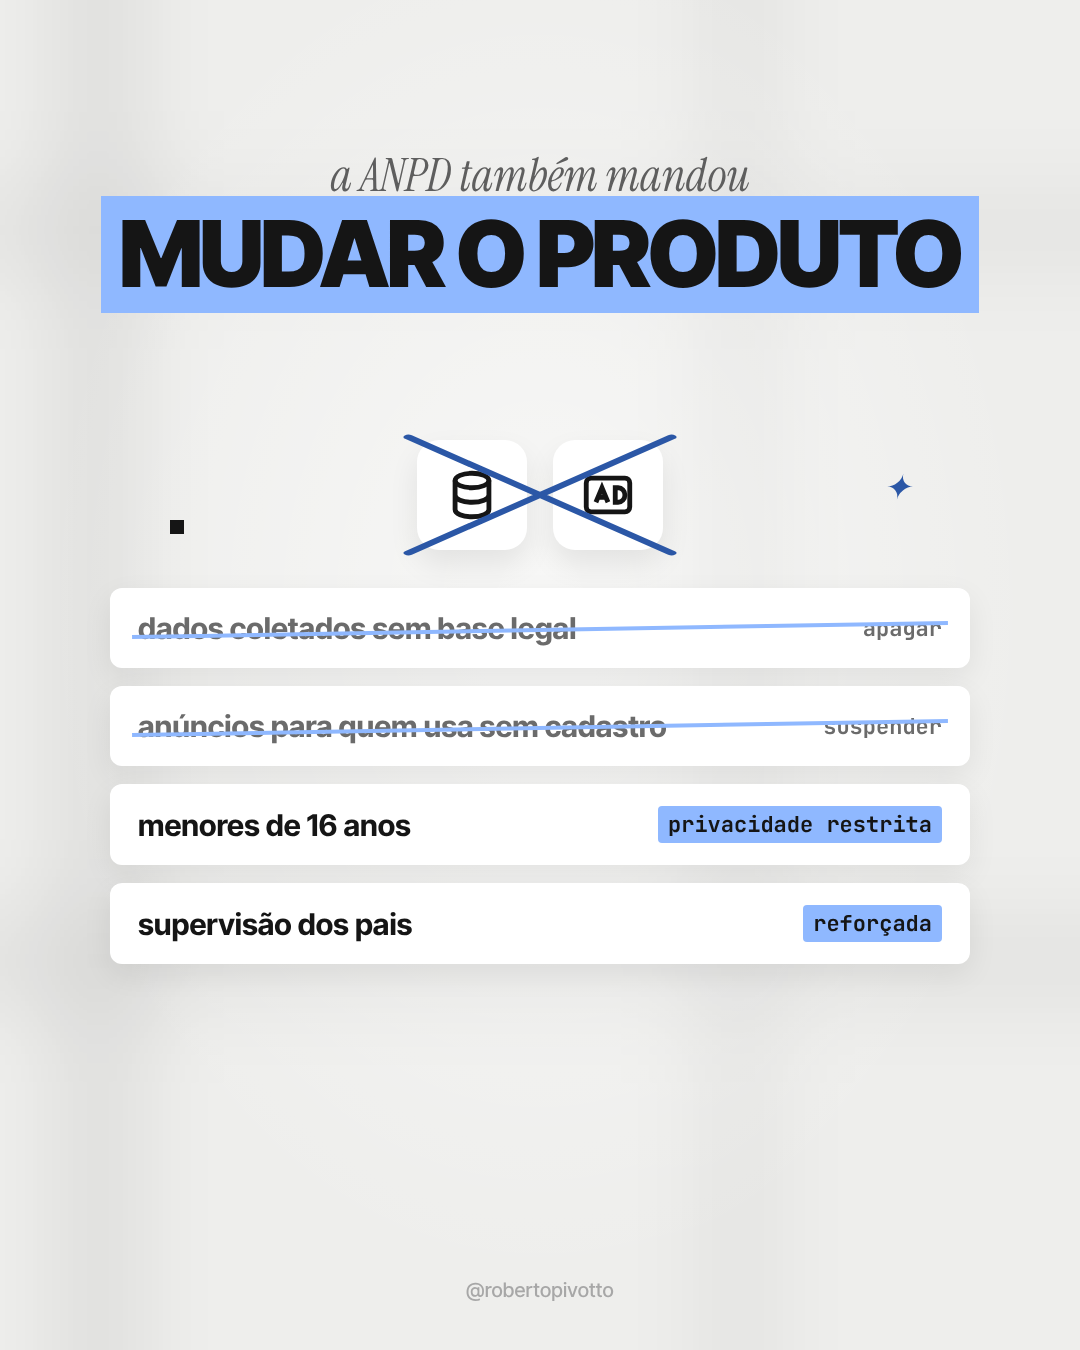
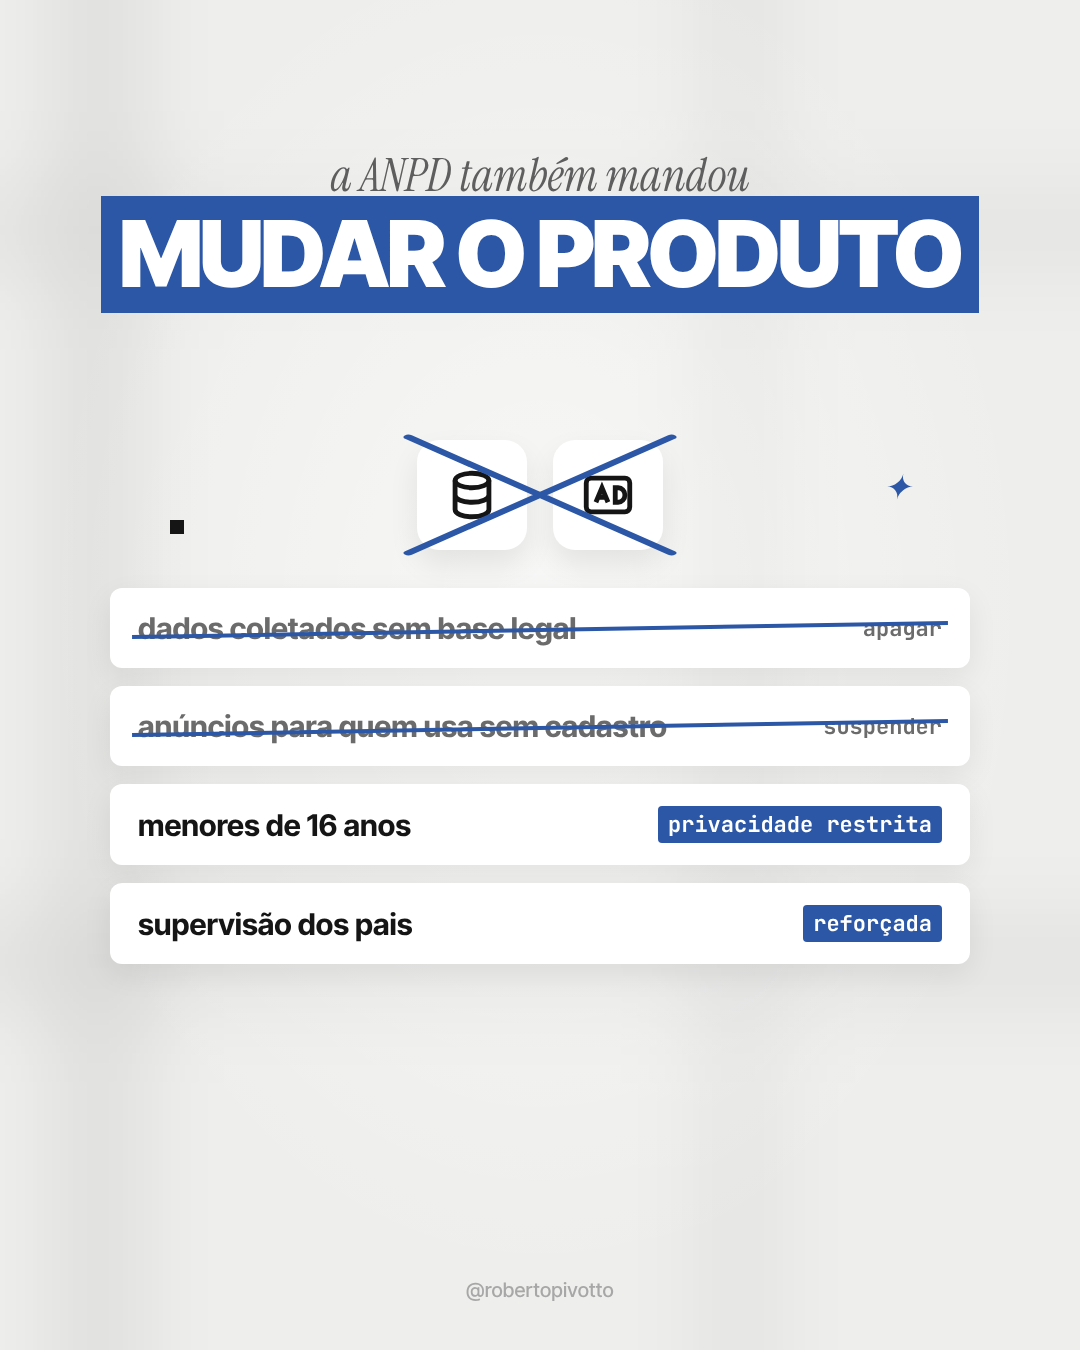
roberto-pivotto: modelo referência em azul forte
Claude-Session: https://claude.ai/code/session_01Su23FwMFMHv6uGmYoix1fv

diff --git a/roberto-pivotto/posts/modelo-referencia/artes.html b/roberto-pivotto/posts/modelo-referencia/artes.html
@@ -11,7 +11,7 @@
    Componentes: .lead (linha pequena em serifa itálica), .big (título pesado em caixa alta),
    .mk (marca-texto), .card, .chip, .tag (etiqueta com miras), .input (caixa de prompt/comentário),
    .lista, .riscado, .num, .estrela. Troque --acento para mudar a cor do tema. */
-:root{--fundo:#EEEEEC;--branco:#FFFFFF;--tinta:#151515;--cinza:#6B6B6B;--cinza2:#A7A7A7;--linha:#E2E2DF;--acento:#8FB8FF;--azul:#2B57A6;
+:root{--fundo:#EEEEEC;--branco:#FFFFFF;--tinta:#151515;--cinza:#6B6B6B;--cinza2:#A7A7A7;--linha:#E2E2DF;--acento:#2B57A6;--azul:#2B57A6;
 --serif:'Instrument Serif',Georgia,serif;--sans:'Inter Tight',system-ui,sans-serif;--mono:'JetBrains Mono',monospace}
 *{box-sizing:border-box;margin:0}
 body{background:#888;padding:40px;display:flex;flex-wrap:wrap;gap:40px}
@@ -110,6 +110,9 @@ svg.ligas{position:absolute;inset:0;width:100%;height:100%;z-index:3;pointer-eve
 .avatar{display:flex;align-items:center;gap:16px;background:var(--branco);border-radius:14px;box-shadow:0 10px 26px rgba(0,0,0,.08);padding:14px 22px 14px 14px;text-align:left}
 .avatar .f{width:56px;height:56px;border-radius:50%;background:var(--tinta);color:#fff;font-weight:800;font-size:22px;display:flex;align-items:center;justify-content:center}
 .avatar b{display:block;font-size:22px} .avatar span{font-size:18px;color:var(--cinza)}
+/* azul forte: texto branco sobre o destaque */
+.mk,.chip.a,.tag,.rot.az,.lista .q,.risc.ok span{color:#fff}
+.tag::before,.tag::after{border-color:var(--tinta)}
 </style>
 </head>
 <body>
@@ -172,7 +175,7 @@ svg.ligas{position:absolute;inset:0;width:100%;height:100%;z-index:3;pointer-eve
 <!-- 5 · respiro com a curva que pivota -->
 <section class="s" data-out="carrossel-05">
   <div class="topo" style="top:360px"><p class="lead">e a multa</p><p class="big g"><span class="mk">foi só</span></p><p class="big g">uma parte</p></div>
-  <svg style="position:absolute;left:190px;top:880px;width:700px;height:240px;z-index:2" viewBox="0 0 700 240"><path d="M10 200 C 170 190, 280 170, 350 150" stroke="#A7A7A7" stroke-width="7" fill="none" stroke-linecap="round"/><path d="M350 150 C 450 120, 560 60, 690 20" stroke="#151515" stroke-width="7" fill="none" stroke-linecap="round"/><circle cx="350" cy="150" r="16" fill="#8FB8FF" stroke="#151515" stroke-width="4"/></svg>
+  <svg style="position:absolute;left:190px;top:880px;width:700px;height:240px;z-index:2" viewBox="0 0 700 240"><path d="M10 200 C 170 190, 280 170, 350 150" stroke="#A7A7A7" stroke-width="7" fill="none" stroke-linecap="round"/><path d="M350 150 C 450 120, 560 60, 690 20" stroke="#151515" stroke-width="7" fill="none" stroke-linecap="round"/><circle cx="350" cy="150" r="16" fill="#2B57A6" stroke="#151515" stroke-width="4"/></svg>
   <span class="rot" style="left:190px;top:1140px;color:#6B6B6B">multa</span><span class="rot ch" style="left:760px;top:860px">o produto muda</span>
   <i class="estrela" style="left:850px;top:340px"></i><i class="cruz" style="left:150px;top:520px"></i>
   <div class="pe">@robertopivotto</div>

diff --git a/roberto-pivotto/design-system/08-referencias.md b/roberto-pivotto/design-system/08-referencias.md
@@ -48,7 +48,7 @@ https://www.instagram.com/reel/Desu6f3t5_q/
 
 ## Modelo no visual das referências
 
-`posts/modelo-referencia/artes.html` reproduz o visual do @amann.dev, aplicado ao carrossel de 26/10 e às capas dos Reels. É um modelo à parte do caderno de obra: fundo claro com sombra de janela, linha pequena em Instrument Serif itálico, título em Inter Tight 900 caixa alta com marca-texto, cartões brancos com sombra, chips pretos em JetBrains Mono, etiqueta com miras e estrelinhas. A cor do marca-texto fica em `--acento`, hoje azul (`#8FB8FF`), com o azul Caneta (`#2B57A6`) nos pontos das linhas e nas estrelas.
+`posts/modelo-referencia/artes.html` reproduz o visual do @amann.dev, aplicado ao carrossel de 26/10 e às capas dos Reels. É um modelo à parte do caderno de obra: fundo claro com sombra de janela, linha pequena em Instrument Serif itálico, título em Inter Tight 900 caixa alta com marca-texto, cartões brancos com sombra, chips pretos em JetBrains Mono, etiqueta com miras e estrelinhas. A cor do marca-texto fica em `--acento`, hoje o azul Caneta forte (`#2B57A6`) com texto branco no destaque.
 
 Linhas e figuras das referências: linhas-guia com ponto entre objeto e rótulo (`data-ligas` na seção), rótulos pretos e azuis (`.rot`), régua no máximo (`.slider`), linha do tempo (`.tempo`), ícones riscados (`.icones` + `.xis`), curva que pivota, quadradinhos (`.quad`), cruzes (`.cruz`) e cartão de perfil (`.avatar`).
 
